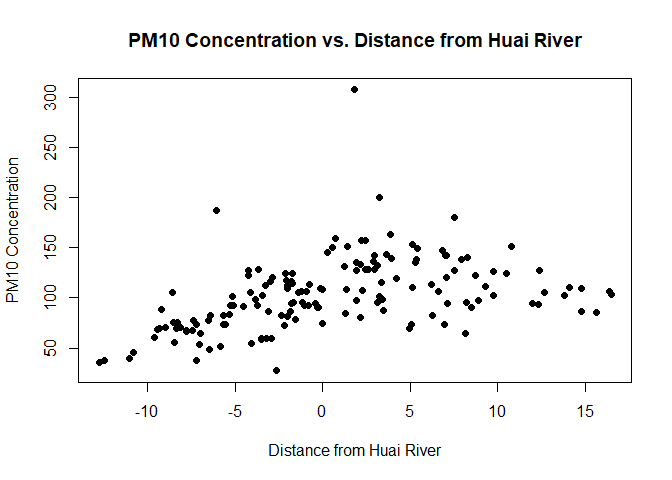
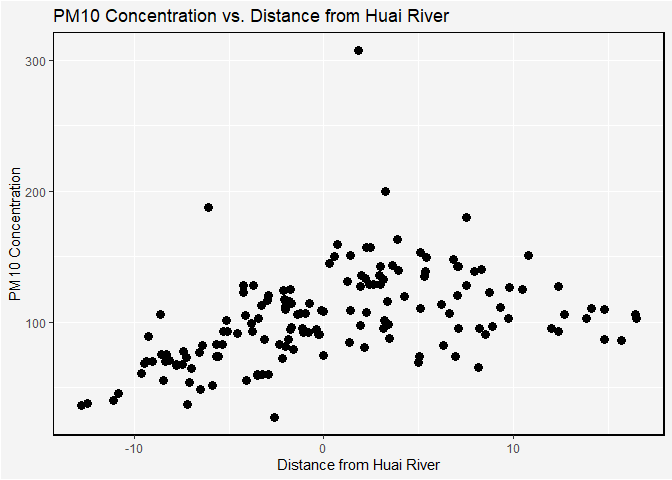
Update data and example

diff --git a/README.md b/README.md
@@ -121,6 +121,7 @@ concentrations, using structured smooth terms.
 ``` r
 library(mgcv)
 library(mgcv.taps)
+library(ggplot2)
 data("Huai_River")
 head(Huai_River)
 ```
@@ -134,11 +135,18 @@ head(Huai_River)
     ## 6      130227          1  94.78634  7.101388
 
 ``` r
-plot(Huai_River$dist_huai, Huai_River$pm10,
-   main = "PM10 Concentration vs. Distance from Huai River",
-   xlab = "Distance from Huai River",
-   ylab = "PM10 Concentration",
-   pch = 16, col = "black")
+ggplot(Huai_River, aes(x = dist_huai, y = pm10)) +
+  geom_point(color = "black", size = 3) +
+  labs(
+    title = "PM10 Concentration vs. Distance from Huai River",
+    x = "Distance from Huai River",
+    y = "PM10 Concentration"
+  ) +
+  theme(
+    panel.border = element_rect(color = "black", fill = NA, size = 1),
+    panel.background = element_rect(fill = "#f4f4f4"),
+    plot.background = element_rect(fill = "#f4f4f4")
+  )
 ```
 
 ![](README_files/figure-gfm/unnamed-chunk-1-1.png)<!-- -->
@@ -181,9 +189,10 @@ theme(panel.border = element_rect(colour = "black", fill = NA, size = 1),
       panel.background = element_rect(fill = "#f4f4f4"))
 ```
 
-![](README_files/figure-gfm/unnamed-chunk-3-1.png)<!-- --> We conduct a
-score test and Wald test to assess whether a more flexible model is
-necessary.
+![](README_files/figure-gfm/unnamed-chunk-3-1.png)<!-- -->
+
+We conduct a score test and Wald test to assess whether a more flexible
+model is necessary.
 
 ``` r
 taps_score_test(fit1)[, 1:4]
@@ -211,7 +220,8 @@ We then fit a model using the parametric form `A %*% alpha` to estimate
 the causal effect directly.
 
 ``` r
-fit2 = gam(pm10 ~ linearity_discontinuity(dist_huai, para = 0), data = Huai_River)
+X=linearity_discontinuity(Huai_River$dist_huai, para = 0)
+fit2 = gam(pm10 ~ X, data = Huai_River)
 summary(fit2)
 ```
 
@@ -220,21 +230,15 @@ summary(fit2)
     ## Link function: identity 
     ## 
     ## Formula:
-    ## pm10 ~ linearity_discontinuity(dist_huai, para = 0)
+    ## pm10 ~ X
     ## 
     ## Parametric coefficients:
-    ##                                                       Estimate Std. Error
-    ## (Intercept)                                            52.8631     2.8094
-    ## linearity_discontinuity(dist_huai, para = 0)Intercept  52.8631     2.8094
-    ## linearity_discontinuity(dist_huai, para = 0)x           4.3624     0.9961
-    ## linearity_discontinuity(dist_huai, para = 0)0_jump     32.1029     8.1151
-    ## linearity_discontinuity(dist_huai, para = 0)0_slope    -6.8941     1.2655
-    ##                                                       t value Pr(>|t|)    
-    ## (Intercept)                                            18.817  < 2e-16 ***
-    ## linearity_discontinuity(dist_huai, para = 0)Intercept  18.817  < 2e-16 ***
-    ## linearity_discontinuity(dist_huai, para = 0)x           4.379 2.22e-05 ***
-    ## linearity_discontinuity(dist_huai, para = 0)0_jump      3.956 0.000117 ***
-    ## linearity_discontinuity(dist_huai, para = 0)0_slope    -5.448 2.04e-07 ***
+    ##             Estimate Std. Error t value Pr(>|t|)    
+    ## (Intercept)  52.8631     2.8094  18.817  < 2e-16 ***
+    ## XIntercept   52.8631     2.8094  18.817  < 2e-16 ***
+    ## Xx            4.3624     0.9961   4.379 2.22e-05 ***
+    ## X0_jump      32.1029     8.1151   3.956 0.000117 ***
+    ## X0_slope     -6.8941     1.2655  -5.448 2.04e-07 ***
     ## ---
     ## Signif. codes:  0 '***' 0.001 '**' 0.01 '*' 0.05 '.' 0.1 ' ' 1
     ## 
@@ -247,21 +251,21 @@ The estimated jump at `dist_huai = 0` is 32.10. This estimate can also
 be extracted from `fit1`:
 
 ``` r
-data.frame(fit1$coefficients, summary(fit1)$se)
+data.frame(fit1$coefficients, summary(fit1)$se, summary(fit1)$p.pv)
 ```
 
-    ##                 fit1.coefficients summary.fit1..se
-    ## (Intercept)            103.094354        2.2955199
-    ## s(dist_huai).1           4.013882        0.4819359
-    ## s(dist_huai).2          31.803411        8.5662862
-    ## s(dist_huai).3          -8.747310        4.5973245
-    ## s(dist_huai).4          -1.530367       54.3997500
-    ## s(dist_huai).5           1.764593       55.9657462
-    ## s(dist_huai).6           3.805944      202.1374169
-    ## s(dist_huai).7          -8.436630      295.6149652
-    ## s(dist_huai).8          -0.420288      538.6830653
-    ## s(dist_huai).9         -10.681127      799.9922269
-    ## s(dist_huai).10          9.771230     1263.4589140
+    ##                 fit1.coefficients summary.fit1..se summary.fit1..p.pv
+    ## (Intercept)            103.094354        2.2955199        7.02785e-89
+    ## s(dist_huai).1           4.013882        0.4819359        7.02785e-89
+    ## s(dist_huai).2          31.803411        8.5662862        7.02785e-89
+    ## s(dist_huai).3          -8.747310        4.5973245        7.02785e-89
+    ## s(dist_huai).4          -1.530367       54.3997500        7.02785e-89
+    ## s(dist_huai).5           1.764593       55.9657462        7.02785e-89
+    ## s(dist_huai).6           3.805944      202.1374169        7.02785e-89
+    ## s(dist_huai).7          -8.436630      295.6149652        7.02785e-89
+    ## s(dist_huai).8          -0.420288      538.6830653        7.02785e-89
+    ## s(dist_huai).9         -10.681127      799.9922269        7.02785e-89
+    ## s(dist_huai).10          9.771230     1263.4589140        7.02785e-89
 
 Here, the second coefficient of `s(dist_huai)` corresponds to the jump.
 Under the mixed-effect structure, the estimated jump is 31.08.
@@ -291,25 +295,27 @@ theme(panel.border = element_rect(colour = "black", fill = NA, size = 1),
       panel.background = element_rect(fill = "#f4f4f4"))
 ```
 
-![](README_files/figure-gfm/unnamed-chunk-7-1.png)<!-- --> The estimated
-causal effect (jump at the cutoff) from the median regression is 28.48:
+![](README_files/figure-gfm/unnamed-chunk-7-1.png)<!-- -->
+
+The estimated causal effect (jump at the cutoff) from the median
+regression is 28.48:
 
 ``` r
-data.frame(fit3$coefficients, summary(fit3)$se)
+data.frame(fit3$coefficients, summary(fit3)$se, summary(fit3)$p.pv)
 ```
 
-    ##                 fit3.coefficients summary.fit3..se
-    ## (Intercept)            102.770869     1.733398e+00
-    ## s(dist_huai).1           4.175361     3.168971e-01
-    ## s(dist_huai).2          28.483770     6.351863e+00
-    ## s(dist_huai).3         -10.233436     3.119935e+00
-    ## s(dist_huai).4         -92.858838     4.469603e+02
-    ## s(dist_huai).5         283.488887     4.765601e+02
-    ## s(dist_huai).6         358.758222     1.805697e+03
-    ## s(dist_huai).7       -1067.645814     2.615167e+03
-    ## s(dist_huai).8         944.214478     4.731396e+03
-    ## s(dist_huai).9       -1526.630388     7.057253e+03
-    ## s(dist_huai).10        161.759727     1.134724e+04
+    ##                 fit3.coefficients summary.fit3..se summary.fit3..p.pv
+    ## (Intercept)            102.770869     1.733398e+00                  0
+    ## s(dist_huai).1           4.175361     3.168971e-01                  0
+    ## s(dist_huai).2          28.483770     6.351863e+00                  0
+    ## s(dist_huai).3         -10.233436     3.119935e+00                  0
+    ## s(dist_huai).4         -92.858838     4.469603e+02                  0
+    ## s(dist_huai).5         283.488887     4.765601e+02                  0
+    ## s(dist_huai).6         358.758222     1.805697e+03                  0
+    ## s(dist_huai).7       -1067.645814     2.615167e+03                  0
+    ## s(dist_huai).8         944.214478     4.731396e+03                  0
+    ## s(dist_huai).9       -1526.630388     7.057253e+03                  0
+    ## s(dist_huai).10        161.759727     1.134724e+04                  0
 
 This is evidence that median GAM can be used to make the fit more
 robust. Currently, score tests are only supported for exponential family
